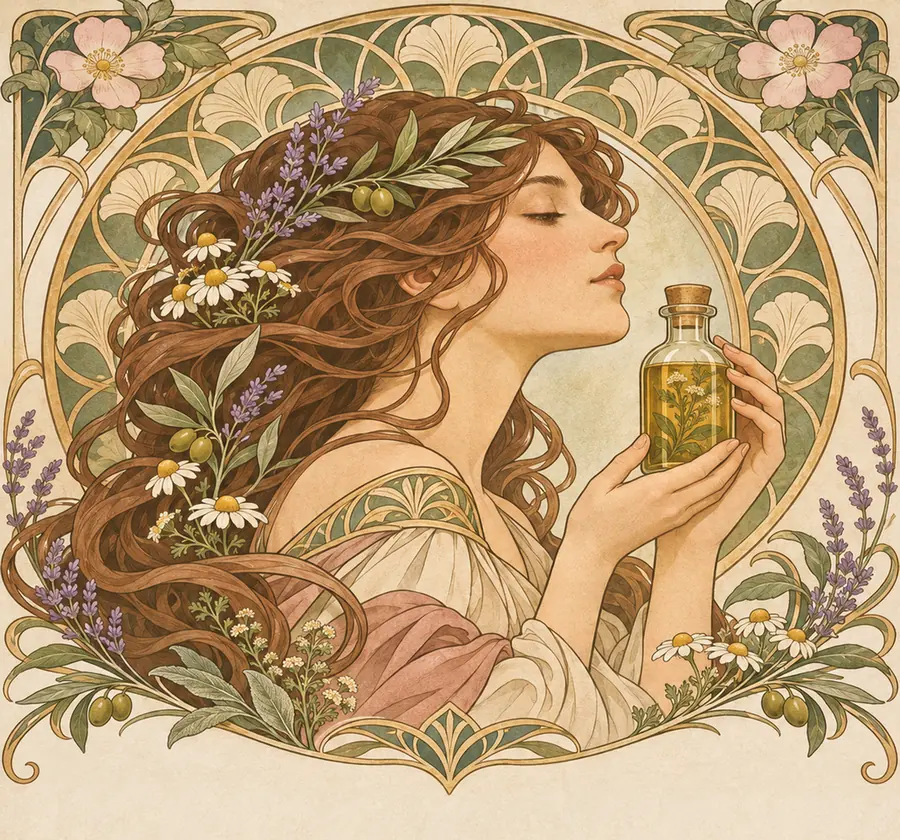
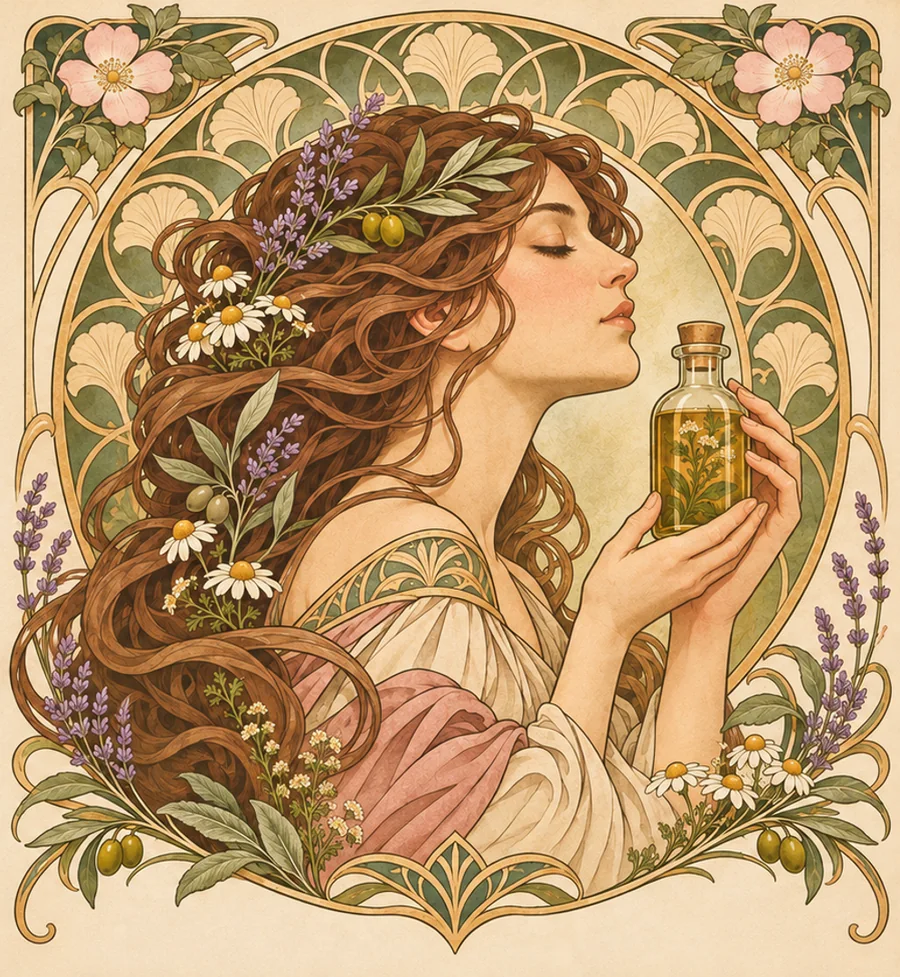
Hero art: crop from the wide original so the proportions are true
Claude-Session: https://claude.ai/code/session_015AG5FndhK79qyHWiE8hRDy

diff --git a/public/index.html b/public/index.html
@@ -597,7 +597,7 @@ function intro(){
   i=-1; ans={};
   app.innerHTML = `<section class="intro2">
     <div class="poster">
-      <img class="art" src="img/hero-art.webp" alt="新藝術風格插畫：手持草本精華瓶的女子" width="900" height="840" fetchpriority="high">
+      <img class="art" src="img/hero-art.webp?v=2" alt="新藝術風格插畫：手持草本精華瓶的女子" width="900" height="977" fetchpriority="high">
       <div class="ptext rise">
         <span class="label">PERSONAL WELLNESS CONSULTATION</span>
         <h1>九個問題，<br>找到你的日常保養</h1>
